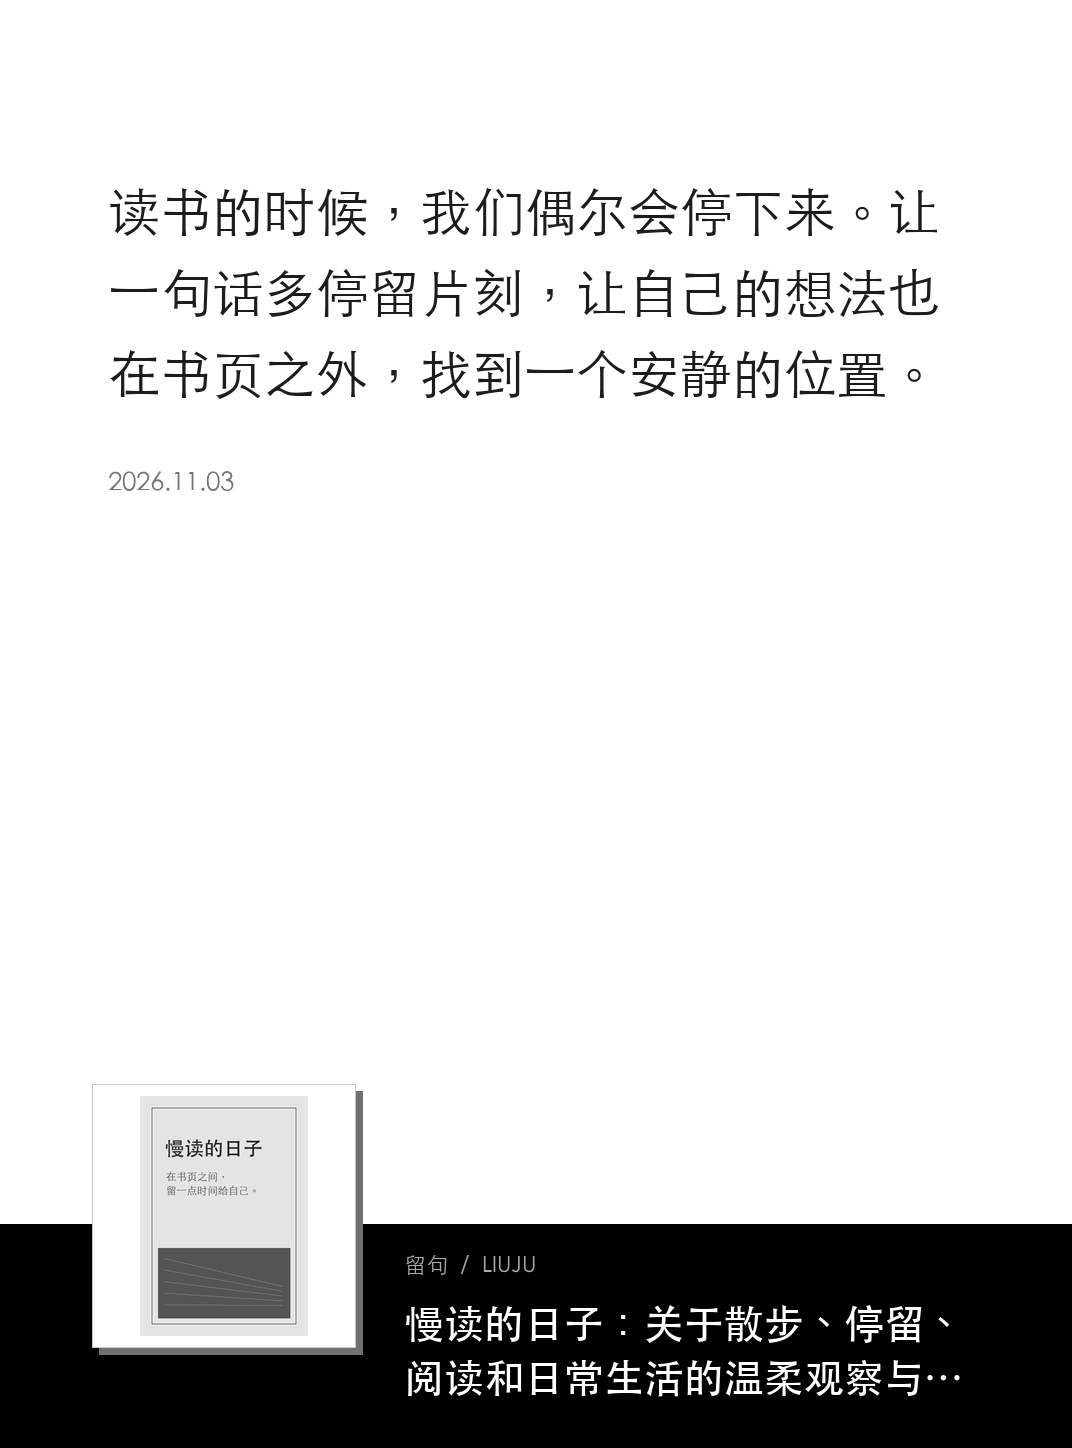
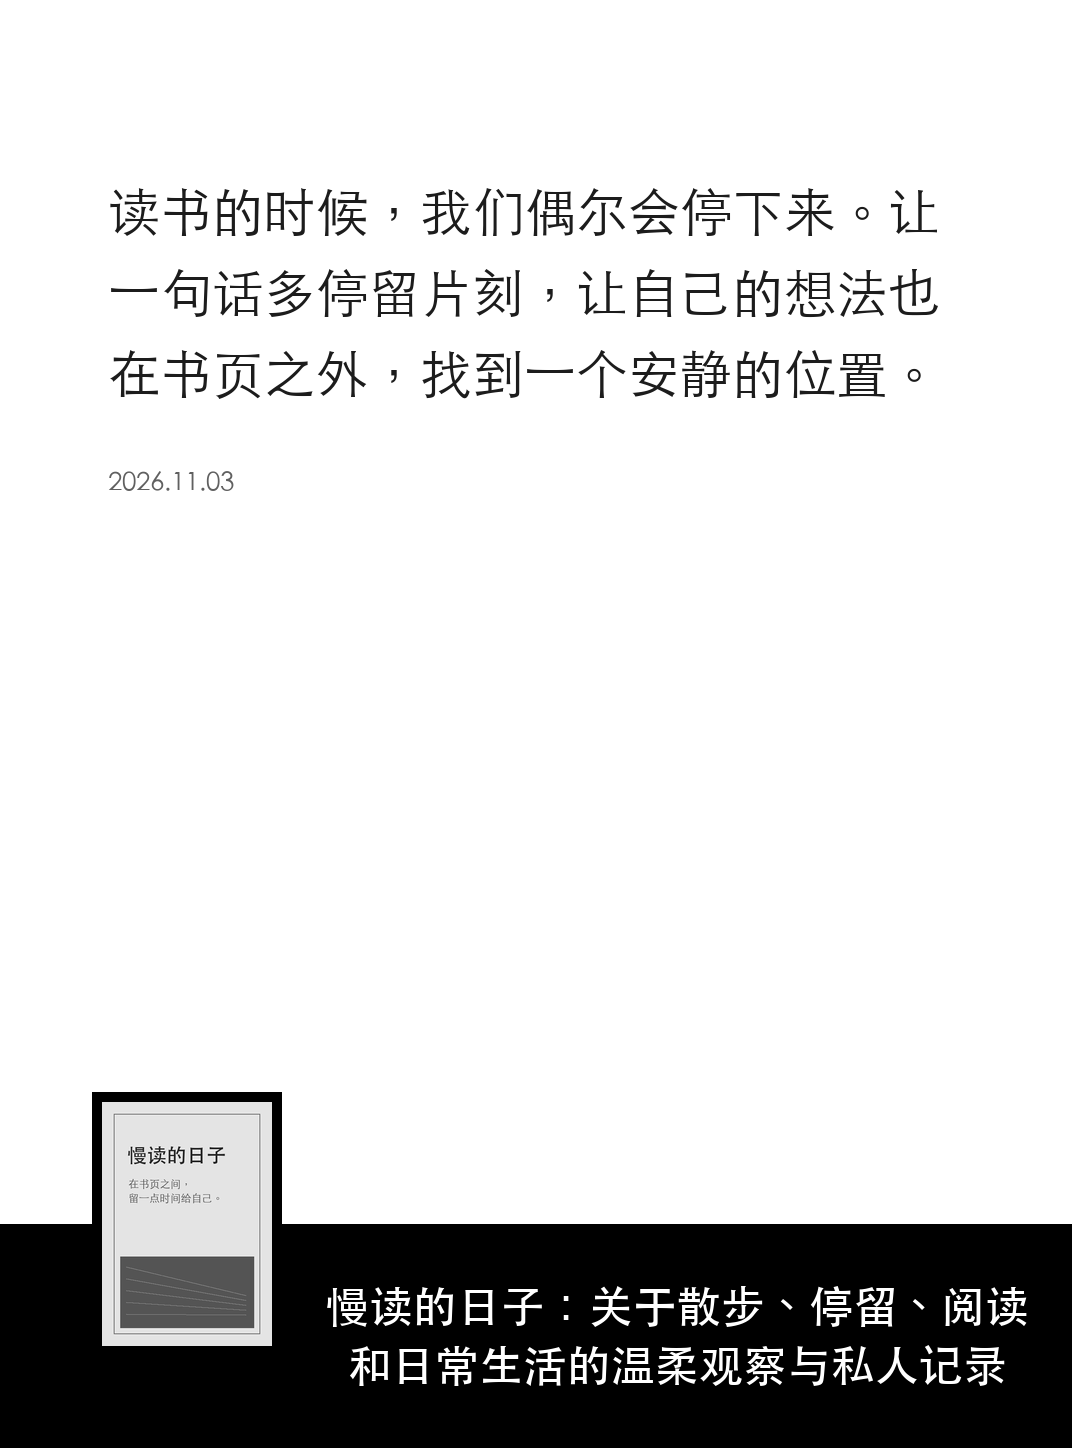
Style book covers and centered titles like a player

Changed region(s): [[0.0616, 0.7459, 0.9543, 0.9634]]

diff --git a/tools/preview.py b/tools/preview.py
@@ -10,7 +10,7 @@ import math
 from pathlib import Path
 
 from lupa.lua51 import LuaRuntime
-from PIL import Image, ImageDraw, ImageFont, ImageOps
+from PIL import Image, ImageDraw, ImageFont
 
 ROOT = Path(__file__).resolve().parents[1]
 
@@ -74,11 +74,13 @@ class Painter:
             draw.text((x + dx, y + i * line_height + dy), line, font=font, fill=gray)
 
     def paint_cover(self, canvas, key, x, y, width, height):
-        if not key or key not in self.covers:
-            return False
-        image = ImageOps.contain(self.covers[key], (int(width), int(height)), Image.Resampling.LANCZOS)
-        self.canvases[canvas].paste(image, (int(x + (width - image.width) / 2), int(y + (height - image.height) / 2)))
+        image = self.covers[key].resize((int(width), int(height)), Image.Resampling.LANCZOS)
+        self.canvases[canvas].paste(image, (int(x), int(y)))
         return True
+
+    def cover_size(self, key):
+        image = self.covers.get(key)
+        return image.size if image else (None, None)
 
     def save(self, canvas, path):
         self.canvases[canvas].save(path, format="PNG")
@@ -117,6 +119,9 @@ end
 function draw:cover(canvas,image,rect)
     return py_cover(canvas.id,image,rect.x,rect.y,rect.w,rect.h)
 end
+function draw:cover_size(image)
+    return py_cover_size(image)
+end
 """
 
 
@@ -133,6 +138,7 @@ def main():
         "hash": lambda value: hashlib.sha256(value.encode()).hexdigest(),
         "canvas": painter.canvas, "rect": painter.rect, "text": painter.text,
         "paint_text": painter.paint_text, "cover": painter.paint_cover, "save": painter.save,
+        "cover_size": painter.cover_size,
         "free_canvas": lambda key: painter.canvases.pop(key, None),
         "free_text": lambda key: painter.widgets.pop(key, None),
     }

diff --git a/README.md b/README.md
@@ -2,14 +2,14 @@
 
 把当前阅读书籍中简短的高亮与批注，排成带封面和标注日期的锁屏壁纸。每次 Kindle 休眠时随机展示一张，换书时自动切换图片池。
 
-**当前版本：0.1.0-rc.4 候选版。** 目标设备为 KPW4，已完成本机回归与桌面视觉检查，尚待 KPW4 实机确认。KOReader 的具体版本待确认；插件使用现代的 annotations 接口。
+**当前版本：0.1.0-rc.5 候选版。** 目标设备为 KPW4，已完成本机回归与桌面视觉检查，尚待 KPW4 实机确认。KOReader 的具体版本待确认；插件使用现代的 annotations 接口。
 
 ![留句壁纸样图](previews/selected-gallery.png)
 
 ## 使用体验
 
 - 打开书籍后，自动读取当前书的高亮和批注，分批生成图片。
-- 采用黑白分享海报版式：正文在上方，书封放在左下角方形唱片卡里，书名以白字排在右侧黑色底栏，日期跟随正文。
+- 采用黑白播放器版式。正文在上方，日期跟随正文。左下角书封一半露在黑色底栏外，黑框贴合封面比例，白字书名在封面右侧居中。
 - 默认上限 80 字；中文、字母、数字和标点各算一字，空白不计。原文与笔记合并计算。
 - 字数合格后，以固定字号实际排版；放不下的内容跳过。短摘录会平衡文本块宽度，保持原文和字号。
 - 每条标注最多一张壁纸，包含封面、书名、原文或笔记、原始标注日期。页码和章节用于内部识别，不出现在壁纸上。
@@ -21,7 +21,7 @@
 
 ## 安装候选版
 
-1. 获取名为 `liuju.koplugin-v0.1.0-rc.4.zip` 的安装包，解压得到 `liuju.koplugin` 文件夹。
+1. 获取名为 `liuju.koplugin-v0.1.0-rc.5.zip` 的安装包，解压得到 `liuju.koplugin` 文件夹。
 2. 完全退出 KOReader，将文件夹复制到 Kindle 的：
 
    ```text
@@ -43,7 +43,7 @@
 
 GitHub 的源码 ZIP 解压后带有分支后缀，手动安装源码时需将目录改为 `liuju.koplugin`。
 
-从 rc.2 升级后，重新打开书籍会将有效小票迁入专用随机目录。从 rc.1 升级会按当前版式生成小票。
+升级后重新打开书籍，小票会按当前版式更新。
 
 在书库调低字数上限时，留句会立即筛选最近一本书的小票。旧版缓存如果还没有字数记录，会先显示封面，重新打开书籍时再核对旧图。
 

diff --git a/docs/IMPLEMENTATION-STATUS.md b/docs/IMPLEMENTATION-STATUS.md
@@ -1,6 +1,6 @@
 # 留句实现记录
 
-日期：2026-11-04；候选版本：0.1.0-rc.4。
+日期：2026-11-04；候选版本：0.1.0-rc.5。
 
 ## 目标与完成情况
 
@@ -18,9 +18,9 @@
 
 ## 视觉选择
 
-采用 [新的分享海报布局](../previews/design-comparison.png)：正文靠左置于上方，日期紧随其后；左下角的方形唱片卡展示完整比例书封，书名以白字位于右侧黑色底栏。保留大块留白，省去旧版小票边框和虚线。
+采用播放器式的黑白布局。正文靠左置于上方，日期紧随其后。左下角黑框贴合书封原比例，封面中线对齐底栏上沿，白字书名在右侧剩余空间居中。保留正文与底栏之间的留白。[版式对比](../previews/design-comparison.png)
 
-KPW4 设计基准中，正文 52 像素、笔记 46 像素、底栏书名 40 像素。尺寸随目标屏幕等比例变化。短摘录按原生行数平衡换行，保持左对齐。书名过长时单独省略，正文保持完整；正文高度超出可用区域时整条跳过。
+KPW4 设计基准中，正文 52 像素、笔记 46 像素、底栏书名 44 像素。尺寸随目标屏幕等比例变化。短摘录按原生行数平衡换行，保持左对齐。书名过长时单独省略，正文保持完整。正文高度超出可用区域时整条跳过。
 
 桌面样图用 macOS 字体模拟栅格化，坐标、排版流程和筛选逻辑来自正式 Lua 渲染器。该结果证明桌面模板可用，不能证明 KPW4 上的原生字体与灰阶完全相同。
 

diff --git a/docs/DEVICE-VALIDATION.md b/docs/DEVICE-VALIDATION.md
@@ -6,7 +6,7 @@
 
 - Kindle 固件：待填写
 - KOReader 版本：待填写
-- 插件：0.1.0-rc.4
+- 插件：0.1.0-rc.5
 - 原生屏幕尺寸：待记录
 - 执行日期和结果：待填写
 
@@ -16,7 +16,7 @@
 2. 如在使用单向历，先关闭它的自动配置屏保。
 3. 打开一本有短高亮的 EPUB，等待几秒，进入“工具 → 留句 → 预览一张”。
 4. 确认封面比例、书名、正文、创建日期完整；正常阅读距离下字体清楚。
-   正文位于上方，左下角是方形封面卡，书名在其右侧的黑栏上，白字完整可读。
+   正文位于上方。左下角封面黑框与底栏相接，封面上下各露一半。白字书名在右侧空位居中。
 5. 合盖或按电源键休眠，检查真实锁屏图；唤醒后正常继续阅读。
 
 ## 内容与换书

diff --git a/docs/PRODUCT-INTENT.md b/docs/PRODUCT-INTENT.md
@@ -50,7 +50,7 @@
 视觉重心是摘录与笔记。封面承担书籍识别，日期作为安静的落款。
 
 - 使用一套主要版式，根据设备屏幕分辨率等比例排版。
-- 参考黑白音乐分享海报：正文在上方，左下角以方形唱片卡展示书封；右侧黑色底栏放白字书名。日期位于正文下方。
+- 参考黑白音乐播放器。正文和日期放在上方，左下角书封带黑框并对半跨过底栏，白字书名在右侧空间居中。
 - 正文有足够的字号、行距和周边留白；短文字也保留相同的字号。
 - 封面保持比例，书名明确可读，日期使用较低的视觉权重。
 - 首版采用适合黑白墨水屏的配色与层次，实际效果以 Kindle 屏幕为准。

diff --git a/CHANGELOG.md b/CHANGELOG.md
@@ -1,5 +1,11 @@
 # 变更记录
 
+## 0.1.0-rc.5 · 2026-11-04
+
+- 左下角书封沿黑色底栏上沿对半跨放，黑框贴合封面比例。
+- 白字书名在封面右侧剩余空间居中，KPW4 设计字号为 44 像素。
+- 略加深日期文字，升级后按新版式更新缓存。
+
 ## 0.1.0-rc.4 · 2026-11-04
 
 - 关书前核对未同步的标注，撤下过期小票，保留有效缓存。
